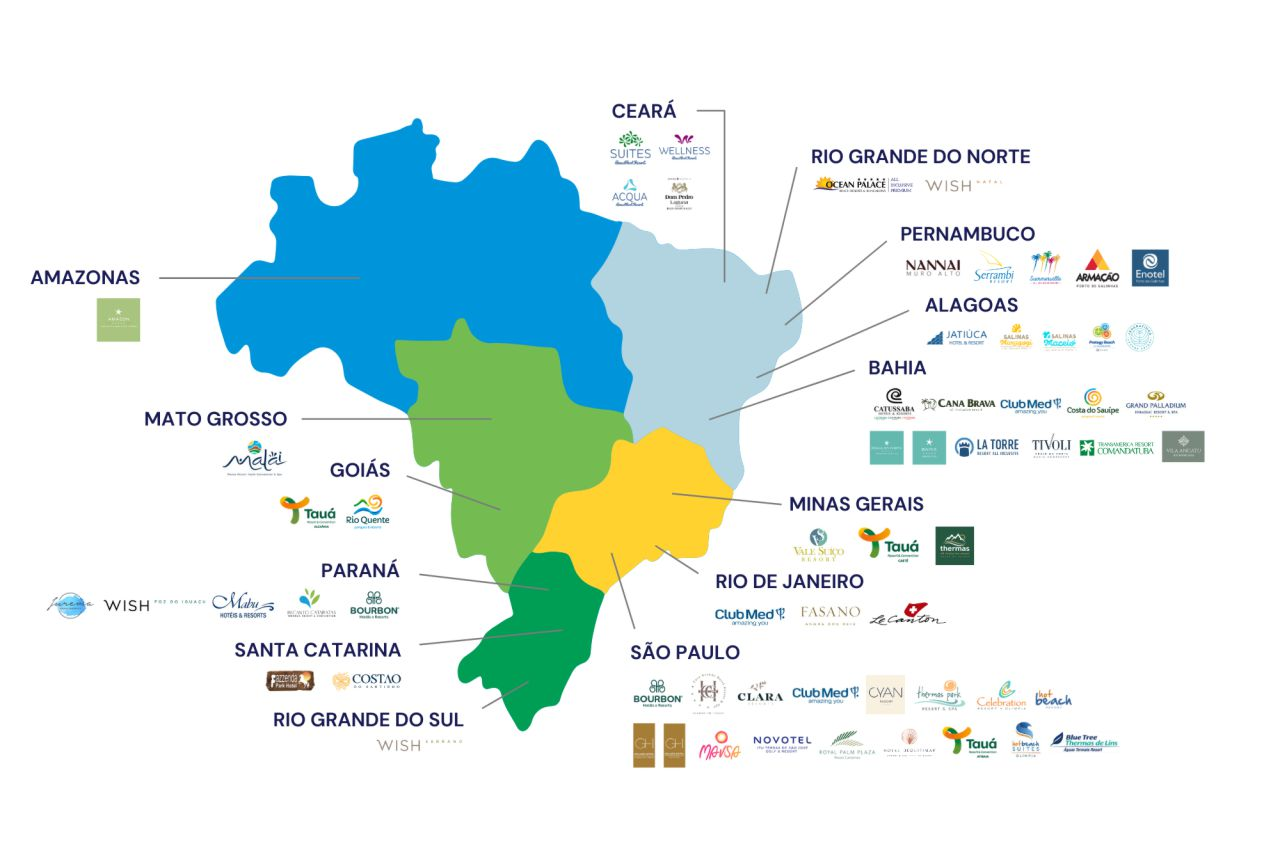
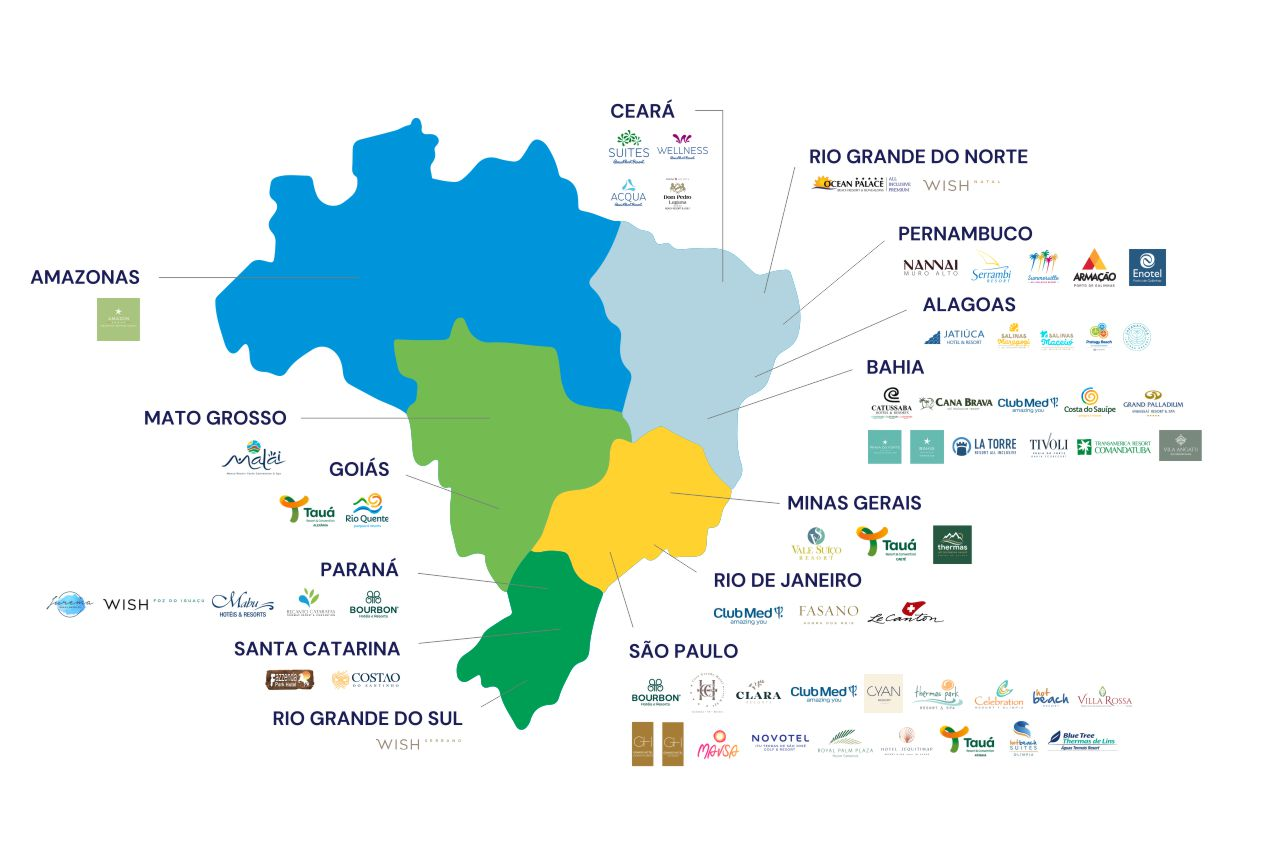
update 2023-04-14

diff --git a/associados.html b/associados.html
@@ -132,7 +132,7 @@
                     <div class="col-md-2 m-b-20">
                         <div class="text-center">
                             <div class="counter display-4 d-block text-dark mb-0">
-                                <span data-to="65" data-from="61"></span>
+                                <span data-to="66" data-from="61"></span>
                             </div>
                             <p>Resorts Associados</p>
                         </div>
@@ -296,6 +296,10 @@
                                             <li><a href="https://hotbeach.com.br/thermas-park/" target="_blank">
                                                     <img src="images/associados/thermas-park-resort-spa.png"
                                                         alt="Thermas Park Resort e Spa by Hot Beach"></a>
+                                            </li>
+                                            <li><a href="https://www.villarossa.com.br/" target="_blank">
+                                                    <img src="images/associados/villa-rossa.png"
+                                                        alt="Villa Rossa Hotel"></a>
                                             </li>
                                         </ul>
                                     </div>

diff --git a/index.html b/index.html
@@ -487,6 +487,9 @@
                                         src="images/associados/vila-angatu-eco-resort.png"></a>
                             </div>
                             <div>
+                                <a href="#"><img alt="villa rossa hotel" src="images/associados/villa-rossa.png"></a>
+                            </div>
+                            <div>
                                 <a href="#"><img alt="wellness beach park resort"
                                         src="images/associados/wellness-beach-park-resort.png"></a>
                             </div>
